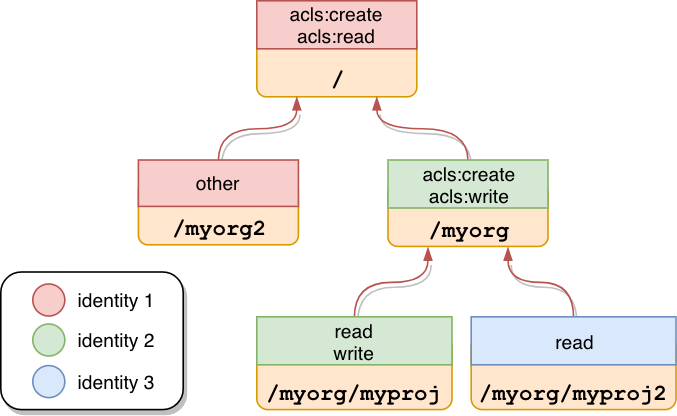
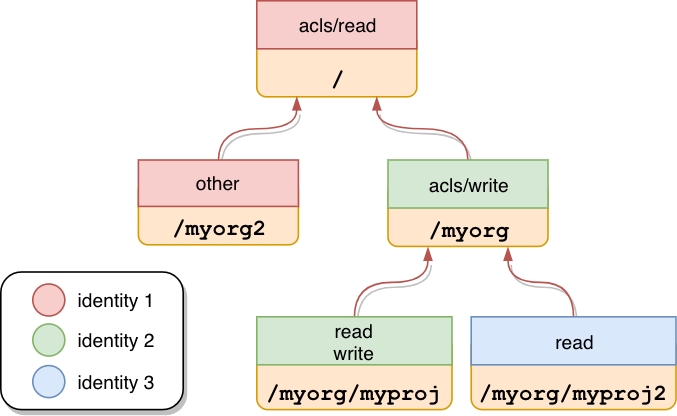
Added fixes from PR comments

Changed region(s): [[0.4343, 0.0, 0.5583, 0.125], [0.6204, 0.4062, 0.7755, 0.5]]

diff --git a/src/main/paradox/docs/api/iam/iam-acls-api.md b/src/main/paradox/docs/api/iam/iam-acls-api.md
@@ -11,14 +11,14 @@ An ACL defines the applications' data access restriction using the following thr
 Any resources in the system might be protected using an **access token**, provided by the HTTP header `Authorization: Bearer {access_token}`. Visit @ref:[Authentication](./authentication.md) in order to learn more about how to retrieve an access token.
 
 ## ACLs Hierarchy
-It is important to know that ACLs are represented in a tree-like structure depending on the path. Imagine the following scenario:
+
+It is important to know that ACLs are represented in a tree-like structure depending on their path. Examples of paths are: `/`, `/myorg` or `/myorg/myproject`. Imagine the following scenario:
 ![Resources tree](../assets/permissions-tree.png "Permissions tree")
 
-Each block is identified by a path that contains a list of permissions for a certain identity (identities are color code divided). There is a special set of permissions which restricts the use of the ACLs API:
+Each block is identified by a path that contains a list of permissions for a certain identity (identities are color code divided). There is a special set of permissions which restrict the use of the ACLs API
 
-- **acls:read** - an auth. token containing an identity with this permission is allowed to visualize a collection of ACL from any other identity.
-- **acls:create** - an auth. token containing an identity with this permission is allowed to perform the call to the [create ACLs](#create-acls) endpoint.
-- **acls:write** - an auth. token containing an identity with this permission is allowed to perform the call to the following endpoints: [replace ACLs](#replace-acls), [subtract ACLs](#subtract-acls), [append ACLs](#append-acls) and [delete ACLs](#delete-acls)
+- **acls/read** - an auth. token containing an identity with this permission is allowed to fetch a collection of ACL from any other identity.
+- **acls/write** - an auth. token containing an identity with this permission is allowed to perform the call to the following endpoints: [cerate ACLs](#create-acls), [replace ACLs](#replace-acls), [subtract ACLs](#subtract-acls), [append ACLs](#append-acls) and [delete ACLs](#delete-acls).
 
 Those permissions need to be present in the current `{address}` where the API interaction occurs or in any parent address. In other words, they are inherited.
 
@@ -31,9 +31,9 @@ This operation creates a collection of ACL on the provided path.
 PUT /v1/acls/{address}
   {...}
 ```
-...where `{address}` is the path where the provided collection of ACL are going to be added. Examples of addresses are: `/`, `/myorg` or `/myorg/myproject`.
+...where `{address}` is the target path for the ACL collection.
 
-The json payload contains the collection of ACL to set on the provided address.
+The json payload contains the collection of ACL to set.
 
 **Example**
 
@@ -49,7 +49,7 @@ Response
 
 ## Replace ACLs
 
-This operation overrides the collection of ACL on a path.
+This operation overrides the collection of ACL on the provided path.
 ```
 PUT /v1/acls/{address}?rev={previous_rev}
   {...}
@@ -58,9 +58,9 @@ PUT /v1/acls/{address}?rev={previous_rev}
 ...where:
 
 - `{previous_rev}`: Number - the last known revision for the ACL collection.
-- `{address}`: String - the path where the provided collection of ACL are going to be replaced.
+- `{address}`: String - is the target path for the ACL collection.
 
-The json payload contains the collection of ACL to set on the provided address.
+The json payload contains the collection of ACL to set.
 
 **Example**
 
@@ -76,7 +76,7 @@ Response
 
 ## Subtract ACLs
 
-This operation removes the provided ACL collection from the existing collection of ACL on the provided address.
+This operation removes the provided ACL collection from the existing collection of ACL on the provided path.
 
 ```
 PATCH /v1/acls/{address}?rev={previous_rev}
@@ -85,7 +85,7 @@ PATCH /v1/acls/{address}?rev={previous_rev}
 ...where:
 
 - `{previous_rev}`: Number - the last known revision for the ACL collection.
-- `{address}`: String - the path where the provided collection of ACL are going to be subtracted.
+- `{address}`: String - is the target path for the ACL collection.
  
 The json payload contains the collection of ACL to remove.
 
@@ -102,7 +102,7 @@ Response
 
 ## Append ACLs
 
-This operation appends the provided ACL collection to the existing collection of ACL on the provided address.
+This operation appends the provided ACL collection to the existing collection of ACL on the provided path.
 
 ```
 PATCH /v1/acls/{address}?rev={previous_rev}
@@ -111,7 +111,7 @@ PATCH /v1/acls/{address}?rev={previous_rev}
 ...where:
 
 - `{previous_rev}`: Number - the last known revision for the ACL collection.
-- `{address}`: String - the path where the provided collection of ACL are going to be appended.
+- `{address}`: String - is the target path for the ACL collection.
 
 The json payload contains the collection of ACL to add.
 
@@ -129,7 +129,7 @@ Response
 
 ## Delete ACLs
 
-This operation deletes the entire collection of ACL on the provided address.
+This operation deletes the entire collection of ACL on the provided path.
 
 ```
 DELETE /v1/acls/{address}?rev={previous_rev}
@@ -138,7 +138,7 @@ DELETE /v1/acls/{address}?rev={previous_rev}
 ...where:
  
 - `{previous_rev}`: Number - the last known revision for the ACL collection.
-- `{address}`: String - the path where the provided collection of ACL are going to be deleted.
+- `{address}`: String - is the target path for the ACL collection.
 
 Request
 :   @@snip [acls-delete.sh](../assets/acls-delete.sh)
@@ -155,7 +155,7 @@ GET /v1/acls/{address}?rev={rev}&self={self}
 
 ...where 
 
-- `{address}`: String - the path where the provided collection of ACL are going to be fetched.
+- `{address}`: String - is the target path for the ACL collection.
 - `{rev}`: Number - the revision of the ACL to be retrieved. This parameter is optional and it defaults to the current revision.
 - `{self}`: Boolean - if `true`, only the ACLs containing the identities found on the auth. token are included in the response. If `false` all the ACLs on the current `{address}` are included. This parameter is optional and it defaults to `true`.
 
@@ -176,7 +176,7 @@ GET /v1/acls/{address}?ancestors={ancestors}&self={self}
 
 ...where 
 
-- `{address}`: String - the path where the provided collection of ACL are going to be fetched.
+- `{address}`: String - is the target path for the ACL collection.
 - `{ancestors}`: Boolean - if `true`, the ACLs of the parent `{address}` are included in the response. If `false` only the ACLs on the current `{address}` are included. This parameter is optional and it defaults to `false`.
 - `{self}`: Boolean - if `true`, only the ACLs containing the identities found on the auth. token are included in the response. If `false` all the ACLs on the current `{address}` are included. This parameter is optional and it defaults to `true`.
 
